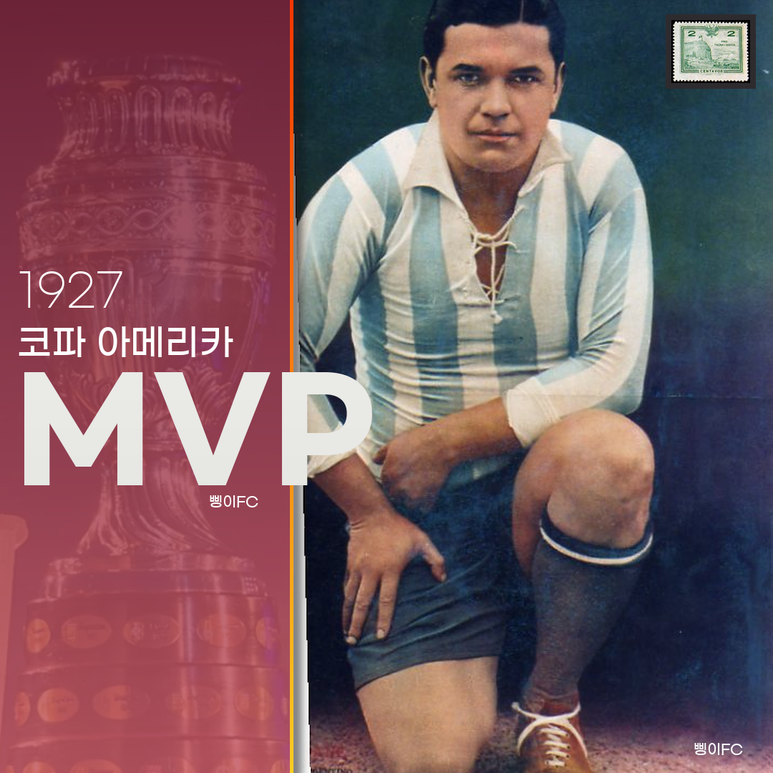
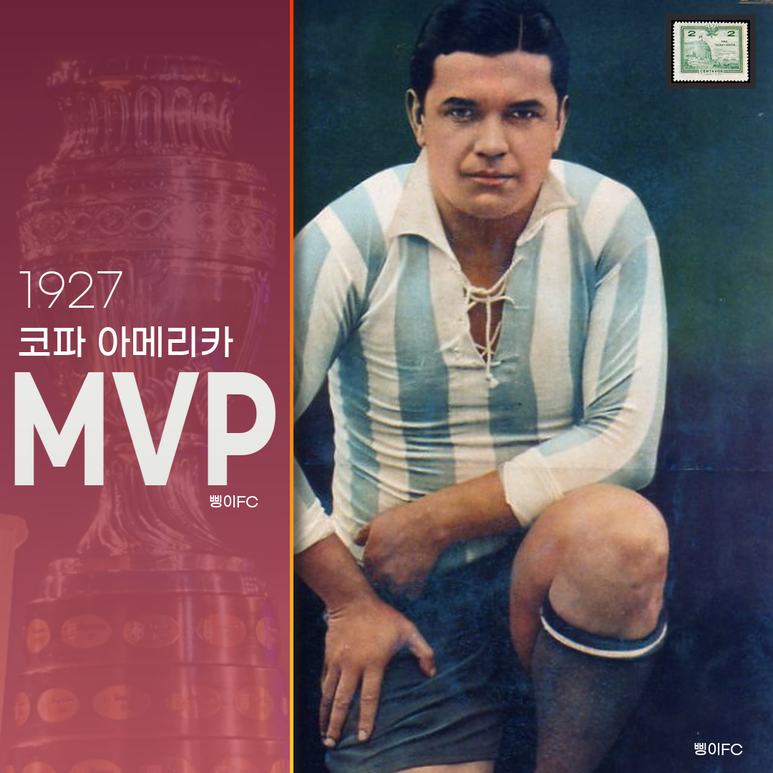
1927 표지 초점과 글자 경계 수정

diff --git a/scripts/archive-cover/render.py b/scripts/archive-cover/render.py
@@ -38,6 +38,29 @@ def paste_text_gradient(
     canvas.paste(gradient, (0, 0), mask)
 
 
+def paste_fitted_text_gradient(
+    canvas: Image.Image,
+    text: str,
+    xy: tuple[int, int],
+    font: ImageFont.FreeTypeFont,
+    max_width: int,
+    top: str = "#F8F7F6",
+    bottom: str = "#DCDDD8",
+) -> None:
+    mask = Image.new("L", canvas.size, 0)
+    ImageDraw.Draw(mask).text(xy, text, font=font, fill=255, anchor="la")
+    bbox = mask.getbbox()
+    if not bbox:
+        return
+    glyph = mask.crop(bbox)
+    if glyph.width > max_width:
+        glyph = glyph.resize((max_width, glyph.height), Image.Resampling.LANCZOS)
+    fitted_mask = Image.new("L", canvas.size, 0)
+    fitted_mask.paste(glyph, (xy[0], bbox[1]))
+    gradient = vertical_gradient(canvas.size, top, bottom)
+    canvas.paste(gradient, (0, 0), fitted_mask)
+
+
 def render(args: argparse.Namespace) -> None:
     here = Path(__file__).resolve().parent
     font_dir = here / "fonts"
@@ -47,7 +70,19 @@ def render(args: argparse.Namespace) -> None:
     signature = ImageFont.truetype(font_dir / "GmarketSansTTFMedium.ttf", 20)
 
     portrait = Image.open(args.photo).convert("RGB")
-    portrait = ImageOps.fit(portrait, (CANVAS - PANEL_WIDTH, CANVAS), method=Image.Resampling.LANCZOS, centering=(0.5, 0.42))
+    target_width = CANVAS - PANEL_WIDTH
+    zoomed_size = (round(target_width * args.zoom), round(CANVAS * args.zoom))
+    portrait = ImageOps.fit(
+        portrait,
+        zoomed_size,
+        method=Image.Resampling.LANCZOS,
+        centering=(args.focus_x, args.focus_y),
+    )
+    overflow_x = portrait.width - target_width
+    overflow_y = portrait.height - CANVAS
+    crop_x = round(overflow_x * args.focus_x)
+    crop_y = round(overflow_y * args.focus_y)
+    portrait = portrait.crop((crop_x, crop_y, crop_x + target_width, crop_y + CANVAS))
     canvas = Image.new("RGB", (CANVAS, CANVAS), "white")
     canvas.paste(portrait, (PANEL_WIDTH, 0))
 
@@ -75,7 +110,7 @@ def render(args: argparse.Namespace) -> None:
     draw = ImageDraw.Draw(canvas)
     draw.text((24, 373), args.year, font=light, fill="white", anchor="la")
     draw.text((24, 454), "코파 아메리카", font=medium, fill="white", anchor="la")
-    paste_text_gradient(canvas, "MVP", (20, 505), bold)
+    paste_fitted_text_gradient(canvas, "MVP", (20, 505), bold, PANEL_WIDTH - 45)
     draw = ImageDraw.Draw(canvas)
     draw.text((292, 691), "삥이FC", font=signature, fill="white", anchor="la")
     draw.text((CANVAS - 42, CANVAS - 43), "삥이FC", font=signature, fill="white", anchor="ra")
@@ -93,10 +128,12 @@ def parse_args() -> argparse.Namespace:
     parser.add_argument("--trophy", required=True, help="1080px PSD-exported trophy source layer")
     parser.add_argument("--top", default="#525589")
     parser.add_argument("--bottom", default="#ACA8E0")
+    parser.add_argument("--focus-x", type=float, default=0.5)
+    parser.add_argument("--focus-y", type=float, default=0.2)
+    parser.add_argument("--zoom", type=float, default=1.0)
     parser.add_argument("--output", required=True)
     return parser.parse_args()
 
 
 if __name__ == "__main__":
     render(parse_args())
-

diff --git a/HANDOFF.md b/HANDOFF.md
@@ -374,5 +374,6 @@ Claude 또는 Codex에 보낼 첫 문장:
 - 표제 인물은 AFA가 1925년에 이어 대회 최고 선수로 회고한 마누엘 세오아네다. 득점왕은 CONMEBOL·AFA 대회별 표를 따라 로베르토 피게로아 4골로 기록하되, AFA 내부의 3골 공동 선두 회고 및 볼리비아전 득점자 오기를 본문에 병기했다. 오래된 통계가 공식 기관 안에서도 충돌하면 하나를 조용히 삭제하지 말고 기준과 충돌을 함께 남긴다.
 - 표지는 기존 PSD를 직접 자동 수정하지 않는다. PSD는 좌표·폰트·트로피·그라데이션·테두리·서명 배치의 설계 기준으로만 분석했다. `scripts/archive-cover/render.py`가 실제 인물 사진, 연도·개최국 우표, 상하 색상, 고정 트로피 원판을 입력받아 773×773 PNG를 생성한다.
 - 코파 표지의 고정 자산은 `scripts/archive-cover/assets/copa-trophy-source.png`, 글꼴은 공식 배포·재배포 허용된 Gmarket Sans TTF다. 실행 예시는 `scripts/archive-cover/README.md`에 있다. 새 연도는 Photoshop을 켜지 않고 `--year`, `--photo`, `--stamp`, `--top`, `--bottom`, `--output`만 바꿔 렌더링한다.
+- 인물 사진은 자동 중앙 크롭 결과를 그대로 발행하지 않는다. `--focus-x`, `--focus-y`, `--zoom`으로 얼굴 위치·머리 여백·상체 비중을 연도별로 조정하고, 773×773 원본과 실제 상세 화면을 육안 검수한다. `MVP` 글자는 좌측 패널 최대폭 안으로 자동 압축되며 주황색 경계를 넘어가면 실패로 간주한다.
 - 표지 우측 상단의 작은 자료는 무관한 장식이 아니라 해당 개최국·연도와 연결되는 실제 우표나 공식 기념물이어야 한다. 1927년은 페루 우정 당국이 그해 발행한 타크나·아리카 국민투표 기금 우표를 사용했다. 우표를 찾지 못하면 검증되지 않은 이미지를 억지로 넣지 말고 생략한다.
 - 공개 파일은 `src/content/archive/1927-copa-america-manuel-seoane.md`, 이미지는 `public/images/archive/1927-copa-america/`다. 페루 국기 `public/images/flags/pe.svg`도 로컬 자산으로 추가했다.

diff --git a/scripts/archive-cover/README.md b/scripts/archive-cover/README.md
@@ -10,12 +10,17 @@ python scripts/archive-cover/render.py `
   --trophy scripts/archive-cover/assets/copa-trophy-source.png `
   --top '#7A263A' `
   --bottom '#C45A68' `
+  --focus-x 0.5 `
+  --focus-y 0.08 `
+  --zoom 1.12 `
   --output public/images/archive/1927-copa-america/cover.png
 ```
 
 - `--photo`: 검증된 실제 역사 사진. 인물 중심의 세로 사진을 권장한다.
 - `--stamp`: 해당 연도·개최국과 연결되는 우표나 공식 기념물. 생략할 수 있다.
 - `--top`, `--bottom`: 좌측 패널의 위·아래 색상.
+- `--focus-x`, `--focus-y`: 인물의 얼굴과 시선에 맞춘 사진 초점. 0에서 1 사이 값이다.
+- `--zoom`: 사진 확대율. 인물 사진마다 표지에서 얼굴 크기를 확인해 조정한다.
 - 고정 트로피 원판은 기존 PSD의 사진 레이어에서 한 번 분리한 자산이다.
 - 글꼴은 [G마켓 공식 배포 페이지](https://news.gmarket.com/fonts/)의 Gmarket Sans TTF를 사용한다. 공식 안내에 따라 수정과 재배포가 허용된다.
 
